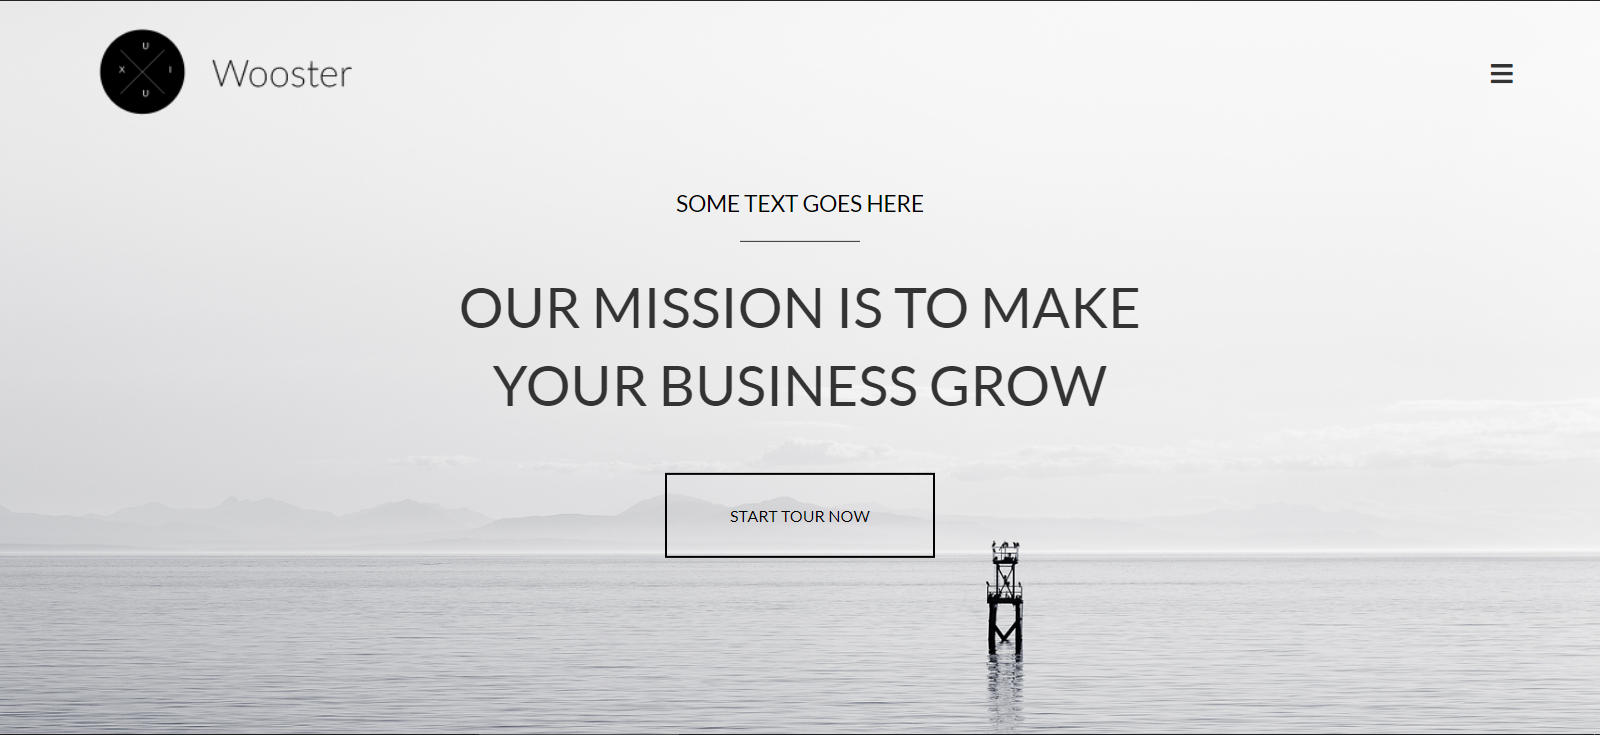
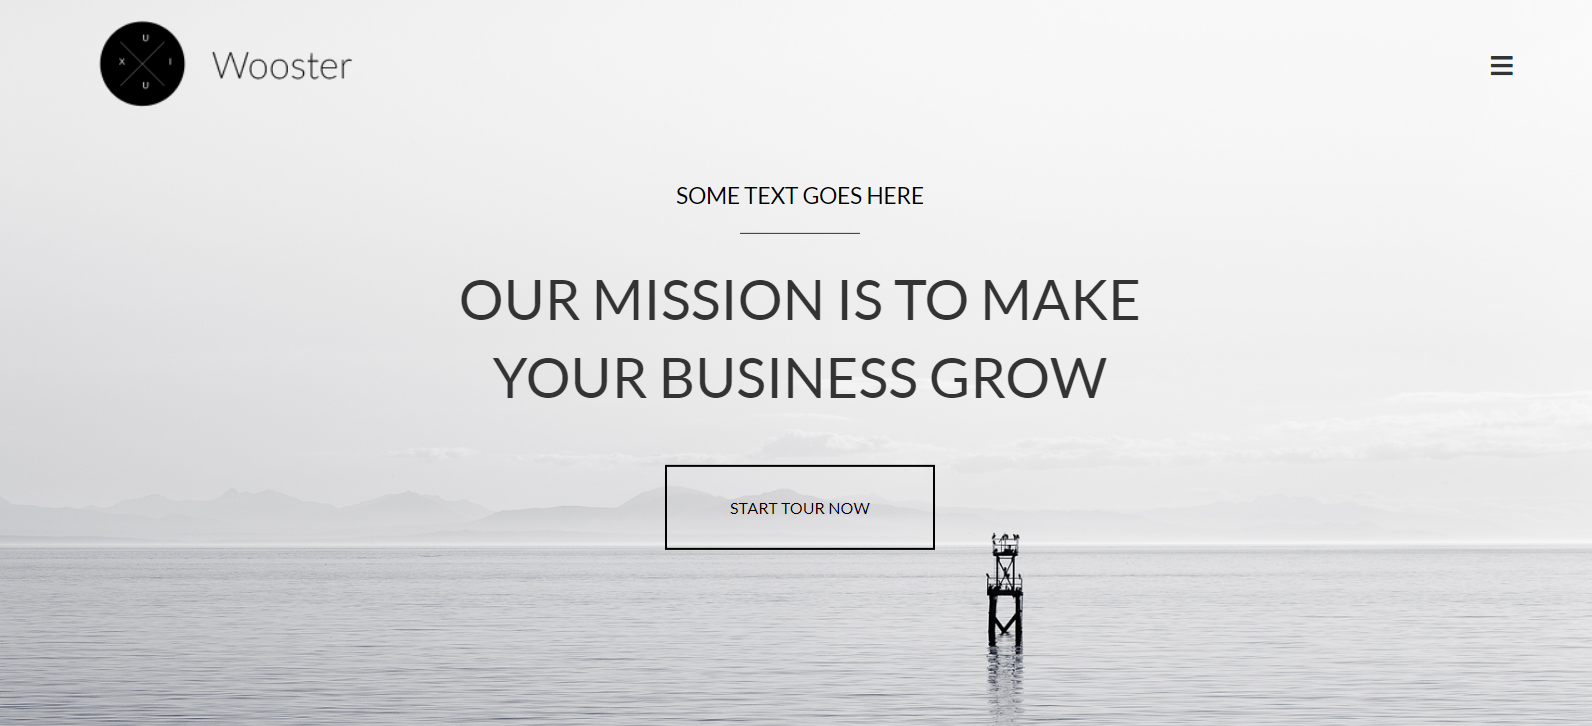
enhancing few things

diff --git a/CSS/portfolio.css b/CSS/portfolio.css
@@ -122,7 +122,6 @@ header .container nav {
   display: flex;
   justify-content: flex-end;
   align-items: center;
-  flex: 1;
   overflow: hidden;
 }
 
@@ -190,6 +189,8 @@ header .container nav ul a:hover {
   background-image: url(../Images/hero1.jpeg);
   height: 100vh;
   background-position: center;
+  background-repeat: no-repeat;
+  background-size: cover;
 }
 
 .landing .over-lay {
@@ -276,8 +277,6 @@ header .container nav ul a:hover {
 }
 
 .about .container {
-  margin-left: 0;
-  margin-right: 0;
   padding-right: 0;
   padding-left: 0;
 }
@@ -292,10 +291,6 @@ header .container nav ul a:hover {
   .about .container .img {
     background-color: transparent;
   }
-}
-
-.about .container .img img {
-  height: 94vh;
 }
 
 .about .container table {
@@ -368,6 +363,7 @@ header .container nav ul a:hover {
   margin: 10px;
   position: relative;
   text-align: center;
+  outline: 0.1px solid #ccc;
 }
 
 .work .container .web-sites .img-box .img-caption {
@@ -609,6 +605,8 @@ bottom: 0;
     text-align: center;
     background-image: url(../Images/testimonial-bg.jpg);
     background-position: center;
+    background-size: cover;
+    background-repeat: no-repeat;
     position: relative;
   }
 
